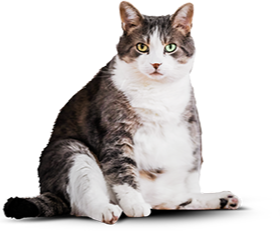
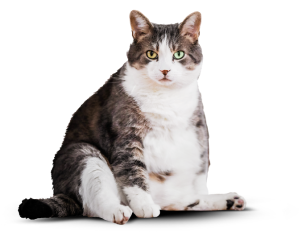
HW5.9

Changed region(s): [[0.0, 0.0, 0.8857, 0.9655]]

diff --git a/source/less/blocks/example.less b/source/less/blocks/example.less
@@ -147,6 +147,7 @@
   line-height: 20px;
   justify-content: center;
   text-transform: uppercase;
+  padding-top: 20px;
 
   @media (min-width: @tablet-width) {
     width: 180px;
@@ -156,6 +157,7 @@
     text-align: end;
     margin: 0 auto;
     margin-right: 0;
+    padding-top: 0;
   }
 
   @media (min-width: @desktop-width) {
@@ -174,7 +176,7 @@
   @media (min-width: @desktop-width) {
     position: absolute;
     top: 0;
-    left: 56%;
+    left: 50%;
     margin: 0 auto;
   }
 }
@@ -187,6 +189,7 @@
   margin-top: 15px;
   margin-bottom: 40px;
   justify-content: space-between;
+  position: relative;
 
   @media (min-width: @tablet-width) {
     margin-top: 25px;
@@ -227,6 +230,23 @@
   }
 }
 
+.example__block-img-fat-mob {
+  position: relative;
+  width: 131px;
+  height: 232px;
+  overflow: hidden;
+  z-index: 1;
+  left: 12px;
+
+  @media (min-width: @tablet-width) {
+    display: none;
+  }
+
+  @media (min-width: @desktop-width) {
+    display: none;
+  }
+}
+
 .example__img-fat-bg1 {
   display: none;
 
@@ -245,6 +265,23 @@
   }
 }
 
+.example__img-fat-bg1-mob {
+  position: absolute;
+  width: 600px;
+  height: 219px;
+  background-color: #eaeaea;
+  overflow: hidden;
+  z-index: -2;
+
+  @media (min-width: @tablet-width) {
+    display: none;
+  }
+
+  @media (min-width: @desktop-width) {
+    display: none;
+  }
+}
+
 .example__img-fat-bg2 {
   display: none;
 
@@ -260,6 +297,23 @@
   }
 }
 
+.example__img-fat-bg2-mob {
+  position: absolute;
+  width: 600px;
+  height: 100px;
+  top: 148px;
+  background-color: #eaeaea;
+  overflow: hidden;
+  z-index: -1;
+
+  @media (min-width: @tablet-width) {
+    display: none;
+  }
+
+  @media (min-width: @desktop-width) {
+    display: none;
+  }
+}
 
 .example__img-fat {
   display: none;
@@ -294,23 +348,40 @@
   }
 }
 
+.example__img-after {
+  position: absolute;
+  display: inline;
+  margin-left: 158px;
+  top: 0;
+  left: -94px;
+
+  @media (min-width: @tablet-width) {
+    display: none;
+  }
+
+  @media (min-width: @desktop-width) {
+    display: none;
+  }
+}
+
 .example__img {
   @media (min-width: @tablet-width) {
     display: none;
   }
 }
 
+
 .example__images {
   position: relative;
   display: flex;
-  justify-content: center;
   width: 280px;
-  padding-top: 80px;
+  padding-top: 0;
   margin: 0 auto;
 
   @media (min-width: @tablet-width) {
     justify-content: left;
     width: 100%;
+    padding-top: 80px;
   }
 
   @media (min-width: @desktop-width) {
@@ -378,12 +449,15 @@
 
 .range-scale-long::-webkit-slider-thumb {
   appearance: none;
-  width: 36px;
+  width: 6px;
   height: 6px;
-  background-color: #68b738;
-  border-radius: 6px;
+  color: #68b738;
+  border-radius: 5px;
+  margin-left: 3px;
+  cursor: pointer;
+  padding: 10px;
 
-    @media (min-width: @tablet-width) {
+  @media (min-width: @tablet-width) {
     appearance: none;
     width: 34px;
     height: 34px;
@@ -393,9 +467,30 @@
     border-radius: 17px;
     cursor: pointer;
     box-shadow: 0 1px 3px rgba(0, 0, 0, 0.16);
+    padding: 0;
   }
 }
 
+.range-mob-thumb {
+  position: absolute;
+  width: 43px;
+  min-width: 6px;
+  max-width: 77px;
+  height: 6px;
+  background-color: #68b738;
+  border-radius: 6px;
+  top: 9px;
+  left: 65px;
+  z-index: 0;
+
+  @media (min-width: @tablet-width) {
+    display: none;
+  }
+
+  @media (min-width: @desktop-width) {
+    display: none;
+  }
+}
 
 .range-scale-long-slider {
   position: absolute;

diff --git a/source/index.html b/source/index.html
@@ -279,25 +279,33 @@
         </div>
         <div class="example-range-desk">
           <div class="example__images">
+
             <picture>
-              <source media="(max-width: 767px)" srcset="images/cat-before-mobile.png, images/cat-before-mobile2x.png">
               <source media="(min-width: @tablet-width)" srcset="images/cat-fat.png, images/cat-fat2x.png">
               <source media="(min-width: @tablet-width)" srcset="images/cat-skinny.png, images/cat-skinny2x.png">
-              <img class="example__img" src="images/cat-before-mobile.png" alt="Кот до похудения" width="280"
+
+              <div class="example__block-img-fat-mob">
+                <div class="example__img-fat-bg1-mob"></div>
+                <img class="example__img" src="images/cat-before-mobile.png" alt="Кот до похудения" width="280"
+                  height="232">
+                <div class="example__img-fat-bg2-mob"></div>
+              </div>
+              <img class="example__img-after" src="images/cat-after-mobile.png" alt="Кот после похудения" width="201"
                 height="232">
+
               <div class="example__block-img-fat">
                 <div class="example__img-fat-bg1"></div>
                 <img class="example__img-fat" src="images/cat-fat.png" alt="Кот до похудения" width="677" height="520">
                 <div class="example__img-fat-bg2"></div>
               </div>
-              <img class="example__img-skinny" src="images/cat-skinny.png" alt="Кот до похудения" width="545"
+              <img class="example__img-skinny" src="images/cat-skinny.png" alt="Кот после похудения" width="545"
                 height="520">
             </picture>
           </div>
           <div class="range-scale">
             <button class="button-before" type="button">Было</button>
-              <input type="range" min="0" max="550" value="290" class="range-scale-long" id="myRange" oninput="fun1()">
-
+            <input type="range" min="0" max="550" value="50%" class="range-scale-long" id="myRange" oninput="fun1()">
+            <div class="range-mob-thumb"></div>
             <button class="button-after" type="button">Стало</button>
           </div>
         </div>

diff --git a/source/js/script.js b/source/js/script.js
@@ -20,8 +20,12 @@ navToggle.addEventListener('click', function () {
 
 function fun1() {
   let exampleRange = document.querySelector('.example__block-img-fat');
+  let exampleRangemob = document.querySelector('.example__block-img-fat-mob');
+  let exampleRangemobslider = document.querySelector('.range-mob-thumb');
   let r1 = document.getElementById('myRange');
 
   exampleRange.style.width = r1.value+'px';
+  exampleRangemob.style.width = r1.value/2+'px';
+  exampleRangemobslider.style.width = r1.value/6.5+'px';
 
 };

diff --git a/source/less/blocks/add-catalog.less b/source/less/blocks/add-catalog.less
@@ -195,7 +195,7 @@
     width: 245px;
     height: 289px;
     top: 119px;
-    right: 70px;
+    right: 107px;
     z-index: -1;
   }
 }

diff --git a/source/less/global/container.less b/source/less/global/container.less
@@ -11,6 +11,6 @@
 
   @media (min-width: @desktop-width) {
     width: 1220px;
-    padding: 0 70px;
+    padding: 0 110px;
   }
 }

diff --git a/source/less/blocks/functional-food.less b/source/less/blocks/functional-food.less
@@ -57,7 +57,7 @@
     top: 25px;
     width: 530px;
     height: 499px;
-    left: 549px;
+    left: 586px;
   }
 }
 
